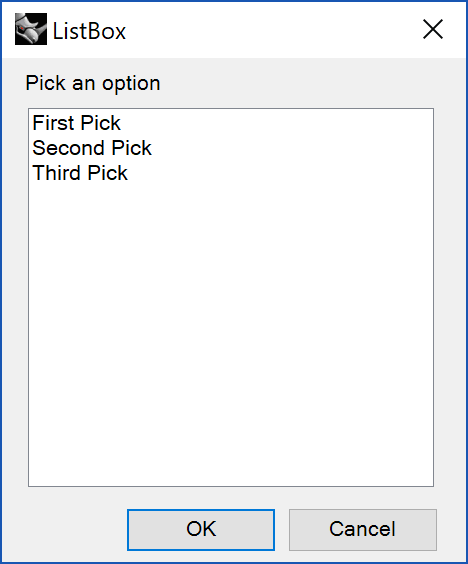
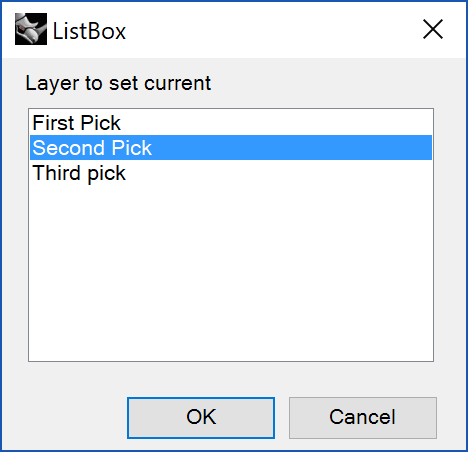
Updated Special dialogs section on User input for Python Guide.

Changed region(s): [[0.0299, 0.0, 0.9274, 0.4027], [0.0, 0.8363, 1.0, 1.0], [0.8974, 0.031, 0.9573, 0.0929]]

diff --git a/_guide_topics/rhinopython/python-user-input.md b/_guide_topics/rhinopython/python-user-input.md
@@ -32,11 +32,11 @@ Get are basic ways to prompt for specifc user feedback on the commandline and mo
 2. **Interactive Gets** - [GetPoint]({{ site.baseurl }}/api/RhinoScriptSyntax/#collapse-GetPoint)([s]({{ site.baseurl }}/api/RhinoScriptSyntax/#collapse-GetPoints)), [GetPointCoordinates]({{ site.baseurl }}/api/RhinoScriptSyntax/#collapse-GetPointCoordinates), [GetLine]({{ site.baseurl }}/api/RhinoScriptSyntax/#collapse-GetLine), [GetDistance]({{ site.baseurl }}/api/RhinoScriptSyntax/#collapse-GetDistance), [GetAngle]({{ site.baseurl }}/api/RhinoScriptSyntax/#collapse-GetAngle), [GetPolyline]({{ site.baseurl }}/api/RhinoScriptSyntax/#collapse-GetPolyline), [GetRectangle]({{ site.baseurl }}/api/RhinoScriptSyntax/#collapse-GetRectangle), [GetBox]({{ site.baseurl }}/api/RhinoScriptSyntax/#collapse-GetBox), [GetCursorPos]({{ site.baseurl }}/api/RhinoScriptSyntax/#collapse-GetCursorPos).
 3. **Geometry Gets** - [GetObject]({{ site.baseurl }}/api/RhinoScriptSyntax/#collapse-GetObject), [GetCurveObject]({{ site.baseurl }}/api/RhinoScriptSyntax/#collapse-GetCurveObject),  [GetSurfaceObject]({{ site.baseurl }}/api/RhinoScriptSyntax/#collapse-GetSurfaceObject), [GetEdgeCurves]({{ site.baseurl }}/api/RhinoScriptSyntax/#collapse-GetEdgeCurves), [GetMeshFaces]({{ site.baseurl }}/api/RhinoScriptSyntax/#collapse-GetMeshFaces), [GetMeshVertices]({{ site.baseurl }}/api/RhinoScriptSyntax/#collapse-GetMeshVertices), [GetPointOnCurve]({{ site.baseurl }}/api/RhinoScriptSyntax/#collapse-GetPointOnCurve), [GetPointOnMesh]({{ site.baseurl }}/api/RhinoScriptSyntax/#collapse-GetPointOnMesh), [GetPointOnSurface]({{ site.baseurl }}/api/RhinoScriptSyntax/#collapse-GetPointOnSurface).
 
-###Command Line gets
+### Command Line gets
 
 The simplest Get function is to ask for a specific value on the command line.   For instance a Get method may prompting for a *number* on the command line with `rs.GetReal()`.
 
-####Getreal()
+#### Getreal()
 
 ```python
 import rhinoscriptsyntax as rs
@@ -45,6 +45,7 @@ import rhinoscriptsyntax as rs
 radius = rs.GetReal("Radius of new circle", 3.14, 1.0)
 if radius: rs.AddCircle( (0,0,0), radius )
 ```
+![{{ site.baseurl }}/images/getreal.png]({{ site.baseurl }}/images/getreal.png){: .img-center }  
 
 rs.GetReal() accepts any number, including decimals. In some cases your code may need only whole numbers- in this case use `rs.GetInteger()`
 
@@ -147,8 +148,7 @@ rs.MessageBox("Hello Rhino!", 4 | 32) # A Yes, No dialog
 rs.MessageBox("Hello Rhino!", 2 | 48) # An Abort, Retry dialog
 ```
 
-
-<img src="{{ site.baseurl }}/images/yes_no-dialog.png" alt="RunPythonScript" width="35%">  
+![{{ site.baseurl }}/images/yes_no-dialog.png]({{ site.baseurl }}/images/yes_no-dialog.png){: .img-center  width="35%"}  
 
 
 Note that rs.MessageBox() returns a value - you can set a variable to record the result from a message box so that you can tell which button the user has clicked.  
@@ -176,70 +176,45 @@ if options:
 
 Will result in: 
 
-<img src="{{ site.baseurl }}/images/yes_no-dialog.png" alt="RunPythonScript" width="35%">  
+![{{ site.baseurl }}/images/dialog-listbox.png]({{ site.baseurl }}/images/dialog-listbox.png){: .img-center  width="35%"}  
+
+#### Pre-defined dialog box methods:  
 
 
-Here is a list of dialog box methods:  
+**CheckListBox** - Displays a list of strings in a checkable list. The user can pick multiple items.   
+![{{ site.baseurl }}/images/dialog-checklistbox.png]({{ site.baseurl }}/images/dialog-checklistbox.png){: .img-center  width="35%"}  
+
+**ComboListBox** -  Displays a list of strings in a combo list.  
+
+![{{ site.baseurl }}/images/dialog-combolistbox.png]({{ site.baseurl }}/images/dialog-combolistbox.png){: .img-center  width="35%"}  
+
+**EditBox**  - Displays a dialog box with a multi-line edit control.   
+
+![{{ site.baseurl }}/images/dialog-editbox.png]({{ site.baseurl }}/images/dialog-editbox.png){: .img-center  width="35%"}  
+
+**PopupMenu**  - Displays a context-like popup menu.  
+
+![{{ site.baseurl }}/images/dialog-popupbox.png]({{ site.baseurl }}/images/dialog-popupbox.png){: .img-center  width="35%"}  
 
 
-<table>
-<tr>
-<th>Type</th>
-<th width="50%">Description</th>
-<th>Dialog</th>
-</tr>
-<tr>
-<td> **CheckListBox** </td>
-<td> Displays a list of strings in a checkable list. The user can pick multiple items. </td>
-<td> <img src="{{ site.baseurl }}/images/dialog-checklistbox.png" alt="RunPythonScript" width="90%"> </td>
-</tr>
-<tr>
-<td> **ComboListBox** </td>
-<td> Displays a list of strings in a combo list. </td>
-<td> <img src="{{ site.baseurl }}/images/yes_no-dialog.png" alt="RunPythonScript" width="90%"> </td>
-</tr>
-<tr>
-<td> **EditBox** </td>
-<td>  Displays a dialog box with a multi-line edit control.  </td>
-<td> <img src="{{ site.baseurl }}/images/yes_no-dialog.png" alt="RunPythonScript" width="90%"> </td>
-</tr>
-<tr>
-<td> **ListBox** </td>
-<td> Displays a list of strings in a simple list box. The user can pick one item. </td>
-<td> <img src="{{ site.baseurl }}/images/dialog-listbox.png" alt="RunPythonScript" width="90%"> </td>
-</tr>
-<tr>
-<td> **MessageBox** </td>
-<td> Displays a Windows message box. </td>
-<td> <img src="{{ site.baseurl }}/images/yes_no-dialog.png" alt="RunPythonScript" width="90%"> </td>
-</tr>
-<tr>
-<td> **PopupMenu**  </td>
-<td> Displays a context-like popup menu. </td>
-<td> <img src="{{ site.baseurl }}/images/yes_no-dialog.png" alt="RunPythonScript" width="90%"> </td>
-</tr>
-<tr>
-<td> **PropertyListBox** </td>
-<td> Displays a list of items and values in a property list. </td>
-<td> <img src="{{ site.baseurl }}/images/yes_no-dialog.png" alt="RunPythonScript" width="90%"> </td>
-</tr>
-<tr>
-<td> **RealBox** </td>
-<td> Displays a dialog box prompting the user to enter a number. </td>
-<td> <img src="{{ site.baseurl }}/images/yes_no-dialog.png" alt="RunPythonScript" width="90%"> </td>
-</tr>
-<tr>
-<td> **StringBox** </td>
-<td> Displays a dialog box prompting the user to enter a string. </td>
-<td> <img src="{{ site.baseurl }}/images/yes_no-dialog.png" alt="RunPythonScript" width="90%"> </td>
-</tr>
-<tr>
-<td> **GetLayer** </td>
-<td> Displays dialog box prompting the user to select a layer</td>
-<td> <img src="{{ site.baseurl }}/images/yes_no-dialog.png" alt="RunPythonScript" width="90%"> </td>
-</tr>
-</table>
-{: .multiline-middle  width="100%" text-align="left" vertical-align="top" }
+**PropertyListBox** - Displays a list of items and values in a property list.  
+
+![{{ site.baseurl }}/images/dialog-propertybox.png]({{ site.baseurl }}/images/dialog-propertybox.png){: .img-center  width="35%"}  
+
+
+**RealBox**  -  Displays a dialog box prompting the user to enter a number. </td>
+
+![{{ site.baseurl }}/images/dialog-realbox.png]({{ site.baseurl }}/images/dialog-realbox.png){: .img-center  width="35%"}  
+
+
+**StringBox** - Displays a dialog box prompting the user to enter a string.   
+
+![{{ site.baseurl }}/images/dialog-stringbox.png]({{ site.baseurl }}/images/dialog-stringbox.png){: .img-center  width="35%"}  
+
+
+**GetLayer** - Displays dialog box prompting the user to select a layer  
+
+![{{ site.baseurl }}/images/getlayer.png]({{ site.baseurl }}/images/getlayer.png){: .img-center  width="35%"}  
 
 
 
@@ -268,6 +243,8 @@ if filename: rs.MessageBox(filename)
 |=====
 |
 {: rules="groups"}  
+
+For a complete detailed sample see the [How to read and write a simple file guide]({{ site.baseurl }}/guides/rhinopython/python-reading-writing/).
 
 ## Eto Custom Dialog Framework
 
